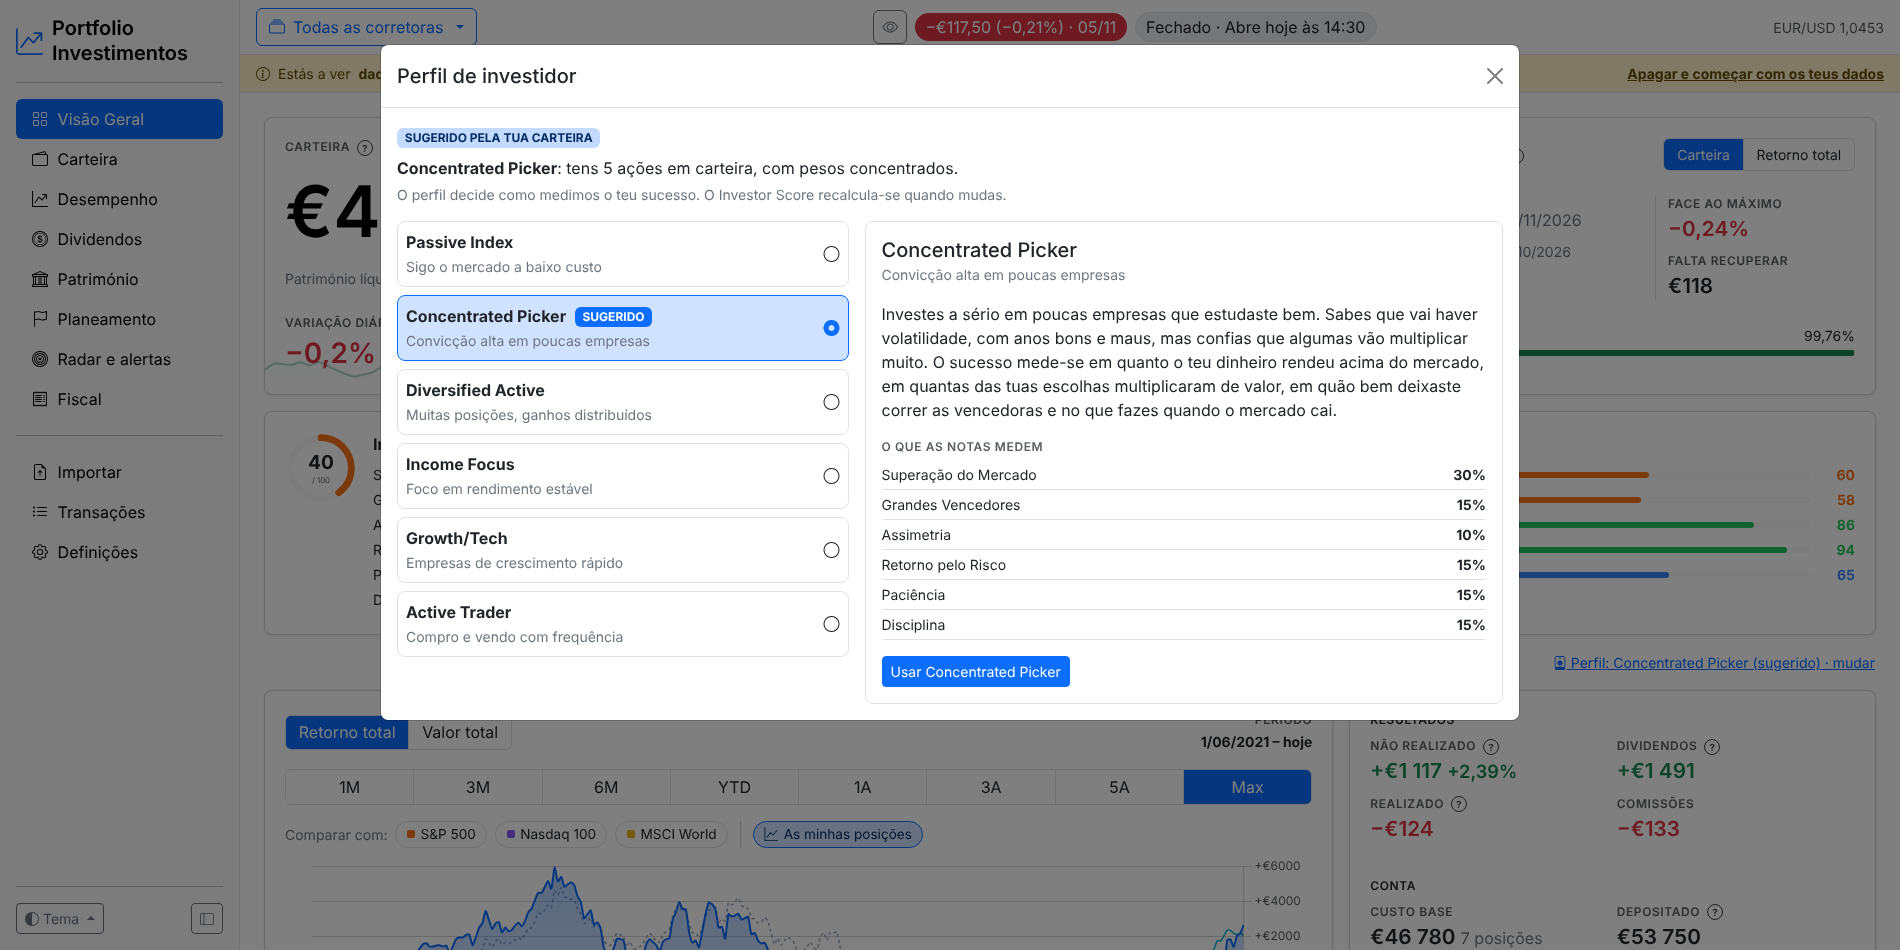
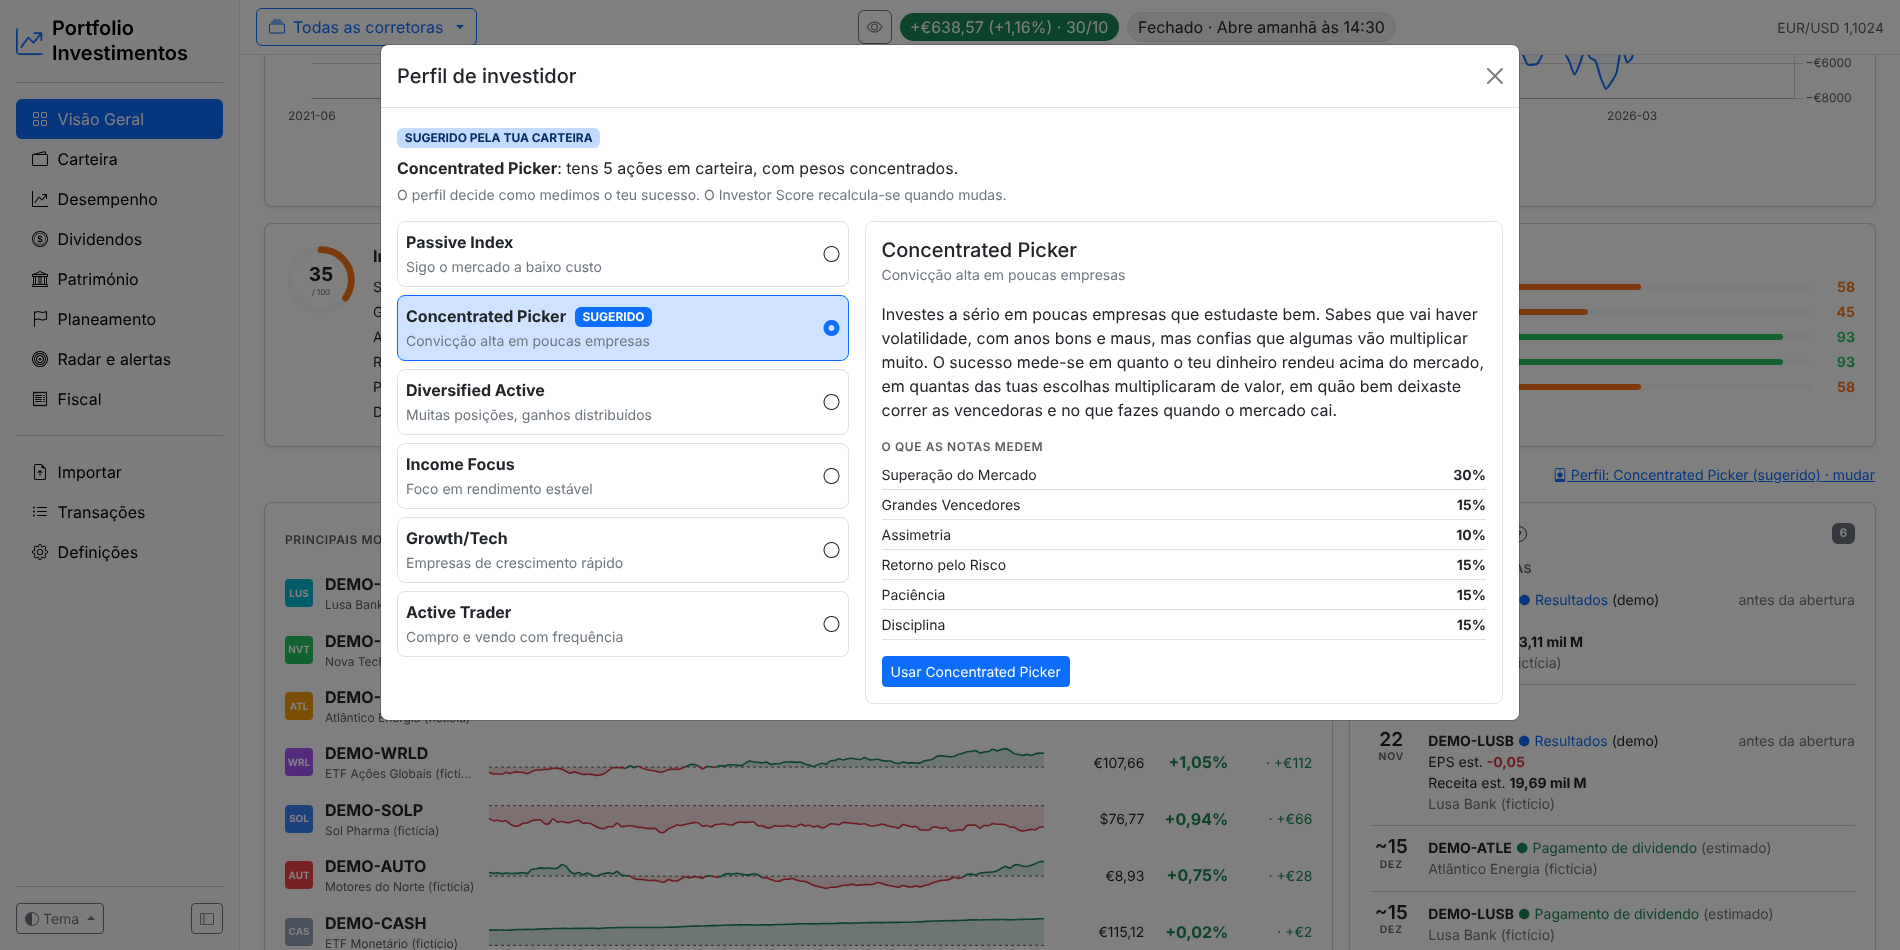
Visão Geral: Investor Score e Portfolio Score a seguir ao gráfico
As notas do perfil de investidor passam para baixo do gráfico «Retorno total / Valor total», antes dos movers e dos próximos eventos. Capturas 01, 02 e 04 refeitas.

Claude-Session: https://claude.ai/code/session_01AhMv5rzh4esVFWwNf2sje8

diff --git a/portfolio_investimentos/templates/pages/index.html b/portfolio_investimentos/templates/pages/index.html
@@ -57,9 +57,6 @@
     </div>
   </div>
 
-  <!-- Perfil de investidor: notas -->
-  {{ ins.scores_row(scores) }}
-
   <!-- Gráfico de desempenho -->
   <div class="col-12">
     <div class="pm-card">
@@ -80,6 +77,9 @@
       <div id="posLegend" class="d-flex flex-wrap gap-2 justify-content-center mt-2"></div>
     </div>
   </div>
+
+  <!-- Perfil de investidor: notas -->
+  {{ ins.scores_row(scores) }}
 
   <!-- Movers -->
   <div class="col-xl-8">

diff --git a/CHANGELOG.md b/CHANGELOG.md
@@ -4,6 +4,8 @@ O que mudou em cada commit, do mais recente para o mais antigo (gerado a partir 
 
 ## 2026-11-05
 
+- **Visão Geral: Investor Score e Portfolio Score a seguir ao gráfico**  
+  As notas do perfil de investidor passam para baixo do gráfico «Retorno total / Valor total».
 - **README: link para o Buy Me a Coffee**  
   Badge no topo e botão na secção nova «Apoiar o projeto», a ligar a buymeacoffee.com/geneiros.
 - **Visão Geral: o gráfico de fundo do cartão Carteira mostra o último ano**  
